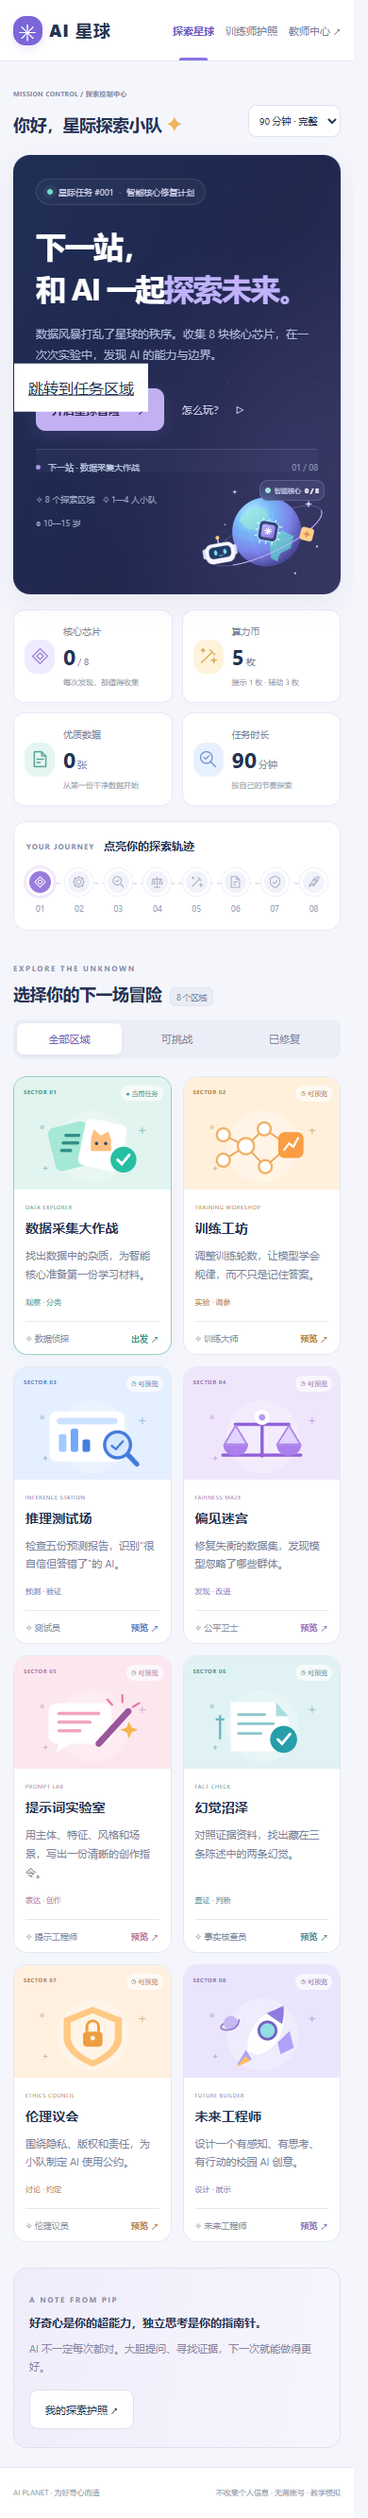
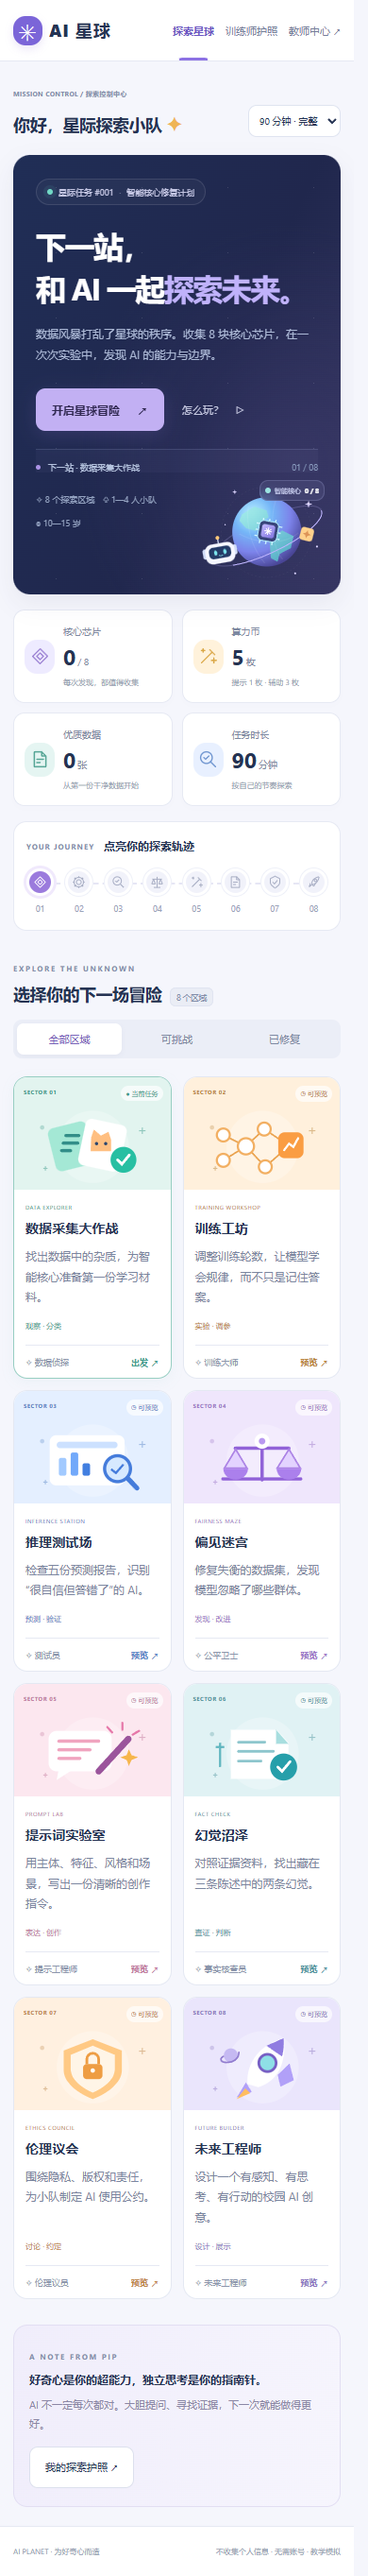
fix: polish keyboard focus and mobile form controls (round 5)

diff --git a/app.js b/app.js
@@ -12,6 +12,8 @@ let view = 'map';
 let active = 0;
 let toastTimer;
 let filter = 'all';
+let dialogTrigger = null;
+let dialogTriggerSelector = '';
 const drafts = new Map();
 function toast(message) {
   $('#toast').classList.remove('show');
@@ -102,7 +104,11 @@ function renderTeacher() {
   $('#main').innerHTML = `<section class="guide-cover"><div><span class="eyebrow">TEACHER’S FIELD GUIDE / 课堂探索手册</span><h1>把好奇心，<br>带进下一堂课。</h1><p>每一次判断，都比一个正确答案更重要。<br>陪伴学生观察、实践、讨论，把问题变成发现。</p><button class="primary" data-print>打印教师指南 ↗</button></div><div class="guide-orbit" aria-hidden="true">${scene(7)}<span>LEARN · EXPLORE · REFLECT</span></div></section><section class="classroom-steps"><div><span>01</span><strong>出发前</strong><p>分成小队，轮换四种角色。</p></div><div><span>02</span><strong>探索中</strong><p>先做判断，再说出证据。</p></div><div><span>03</span><strong>归来后</strong><p>展示作品，分享新的问题。</p></div></section><section class="panel"><div class="section-heading"><h2>选择你的课堂节奏</h2><label class="teacher-mode-label" for="teacher-mode">当前节奏 <select id="teacher-mode"><option value="45" ${state.mode==='45'?'selected':''}>45 分钟</option><option value="90" ${state.mode==='90'?'selected':''}>90 分钟</option><option value="project" ${state.mode==='project'?'selected':''}>4 课时</option></select></label></div><div class="teacher-grid"><div><h3>45 分钟 · 精简挑战</h3><p>开场 3 分钟 → 每关约 4 分钟 → 分享 10 分钟。保留全部核心概念，口头复盘。</p></div><div><h3>90 分钟 · 完整探索</h3><p>开场 5 分钟 → 每关约 9 分钟 → 分享 13 分钟。轮换团队角色，并解释每次判断。</p></div><div><h3>4 课时 · 项目实践</h3><p>每课时完成 2 关；第 4 课时安排校园 AI 方案展示与同伴反馈。建议每课时 40 分钟。</p></div></div><p class="muted">节奏设置调整教学提示与任务时长，不设置倒计时、不减少关卡；教师可灵活掌握讨论时间。</p></section><section class="panel"><h2>教师引导问题</h2><ol><li>AI 根据什么做出判断？训练数据能代表现实吗？</li><li>为什么数据更多不一定更好？干净的数据是否也可能缺乏代表性？</li><li>模型很有信心时，我们还需要哪些证据？</li><li>AI 出错时，谁应检查、纠正和承担责任？</li><li>像人一样说话，能证明 AI 有意识吗？我们还缺少什么证据？</li></ol></section><section class="panel"><h2>安全与课堂约定</h2><ul><li>不拍人脸，不输入姓名、联系方式、住址等个人信息。</li><li>本游戏不联网调用模型；模型训练、准确率、生成作品均为教学模拟。</li><li>外部 AI 工具由教师使用合适账号并全程陪同，先确认适龄条件与数据规则。</li><li>尊重不同背景，避免用群体刻板印象解释偏见。</li><li>开放题的自动通关只表示材料填写完整，质量由教师或同伴讨论确认。</li></ul></section><section class="panel"><h2>准备与评价</h2><p>线上：每组一台电脑或平板；不插电：30 张数据卡、标签贴、护照、芯片贴纸、算力币与海报纸。</p><p>每关首次完成获得 1 枚芯片和 2 枚算力币。提示花费 1 枚，辅助解题花费 3 枚；重复查看不再发奖。辅助解题后仍需提交作品或概念回答。</p><p>金牌：全部通关、平均分 ≥85、优质数据 ≥20、算力币 ≥5、协作自评 ≥2；其他全部通关者获得银牌。完成伦理议会另获伦理议员称号。</p><button class="secondary" id="print">打印本页</button></section>`;
 }
 function field(label, id, placeholder = '', min = 8) { return `<label class="input-label" for="${id}">${label}<span class="field-minimum">至少 ${min} 字</span></label><textarea id="${id}" aria-describedby="${id}-counter" minlength="${min}" maxlength="1200" placeholder="${placeholder}" required></textarea><div id="${id}-counter" class="field-counter" data-for="${id}"></div>`; }
-function choice(id, options) { return `<select id="${id}" aria-label="${id.startsWith('sample-')?'样本 '+(Number(id.split('-')[1])+1)+' 的预测判断':'选择你的判断'}" required><option value="">请选择</option>${options.map((o,i)=>`<option value="${i}">${o}</option>`).join('')}</select>`; }
+function choice(id, options) {
+  const labels={'train-choice':'测试准确率不等于100%的原因',confidence:'置信度是否等于正确率',fairness:'平衡数据后还需要做什么',tech:'方案采用的前沿技术'};
+  const label=labels[id] || (id.startsWith('sample-')?`样本 ${Number(id.split('-')[1])+1} 的预测判断`:`第 ${Number(id.split('-')[1])+1} 条陈述的证据判断`);
+  return `<select id="${id}" aria-label="${label}" required><option value="">请选择</option>${options.map((o,i)=>`<option value="${i}">${o}</option>`).join('')}</select>`;
+}
 function stageBody(id) {
   if (id===0) return `<p>检查 30 张图标数据卡。每张卡选择正确类别，或标记为剔除；保留至少 20 张清晰且标签正确的数据。</p><div class="data-workbench"><div><small>处理进度</small><strong id="data-processed">0 / 30</strong></div><div><small>已保留</small><strong id="data-kept">0</strong></div><div><small>已剔除</small><strong id="data-discarded">0</strong></div><button type="button" class="text-button" id="next-card">定位未处理卡片 ↓</button><progress id="data-progress" max="30" value="0" aria-label="数据处理进度"></progress></div><p class="workbench-note">计数仅记录操作进度，正确性将在提交后核对。</p><div class="data-grid">${cards.map(c=>`<label class="data-card"><small>#${String(c.id+1).padStart(2,'0')} · 标签：${c.label}</small><span class="animal ${c.blurry?'blurred':''}" aria-label="${c.blurry?'模糊的': '清晰的'}${c.actual}图标">${c.icon}</span><small>${c.blurry?'图像模糊':'图像清晰'}</small><select data-card="${c.id}" aria-label="第 ${c.id+1} 张数据卡的处理方式"><option value="">未处理</option>${['猫','狗','其他','剔除'].map(t=>`<option>${t}</option>`).join('')}</select></label>`).join('')}</div>${field('剔除理由','reason','描述模糊数据与错标签会怎样影响模型。')}`;
   if (id===1) return `<div class="notice">教学模拟 · 数值不来自真实模型训练</div><label class="input-label" for="epochs">训练轮数：<strong id="epoch-count">5</strong> 轮</label><input type="range" id="epochs" min="1" max="20" value="5"><div class="epoch-presets" aria-label="训练轮数快捷实验"><button type="button" data-epochs="3">试试 3 轮</button><button type="button" data-epochs="10">试试 10 轮</button><button type="button" data-epochs="20">试试 20 轮</button></div><div id="training-result"></div><p class="muted">试试 3、10、20 轮。训练越久，测试表现就一定越好吗？</p>${field('为什么测试准确率不是 100%？','reason','从样本差异、信息不足或模型能力解释。')}${choice('train-choice',['训练准确率高就能保证新题全对','新样本与训练数据有差异，模型也有局限'])}`;
@@ -128,6 +134,11 @@ function restoreDraft() {
 }
 function openStage(id) {
   if (!Number.isInteger(id) || !stages[id]) return;
+  if (!$('#mission-dialog').open) {
+    dialogTrigger = document.activeElement;
+    const kind=['level-card','badge','journey-node','stage-link'].find(c=>dialogTrigger?.classList.contains(c));
+    dialogTriggerSelector=kind?`.${kind}[data-stage="${id}"]`:'.hero .primary';
+  }
   if ($('#mission-dialog').open) rememberDraft();
   $('#dialog-toast').hidden = true;
   const dialog = $('#mission-dialog');
@@ -242,7 +253,14 @@ document.addEventListener('change', e=>{
   if(['mode','map-mode','teacher-mode'].includes(e.target.id)) { state.mode=e.target.value; save(); render(); toast('探索节奏已更新。'); }
   if(e.target.classList.contains('collab')) { state.collaborationItems=$$('.collab').map(el=>el.checked); state.collaboration=state.collaborationItems.filter(Boolean).length; save(); const focused=$$('.collab').indexOf(e.target); renderPassport(); $$('.collab')[focused]?.focus(); }
 });
-$('#mission-dialog').addEventListener('close', rememberDraft);
+$('#mission-dialog').addEventListener('close', () => {
+  rememberDraft();
+  requestAnimationFrame(()=>{
+    if ($('#mission-dialog').open) return;
+    const target=dialogTrigger?.isConnected?dialogTrigger:$(dialogTriggerSelector)||$('#main');
+    target?.focus({preventScroll:true});
+  });
+});
 render();
 if(!storageAvailable) toast('当前浏览器限制本地存储，离开前请导出护照。');
 

diff --git a/styles.css b/styles.css
@@ -2996,3 +2996,33 @@ dialog
  .art-actions { flex-direction:column; gap:8px; }
  .generation { padding:12px; }
 }
+
+/* Round 5 — focus, touch and reading details */
+.skip-link { position:fixed; top:12px; left:15px; width:1px; height:1px; padding:0; margin:-1px; overflow:hidden; clip:rect(0,0,0,0); clip-path:inset(50%); white-space:nowrap; transform:none; }
+.skip-link:focus-visible { width:auto; height:auto; padding:14px 18px; margin:0; overflow:visible; clip:auto; clip-path:none; transform:none; border-radius:8px; box-shadow:0 5px 22px #2c365e33; }
+.close { min-width:44px; min-height:44px; }
+.text-button,.secondary { min-height:44px; }
+.check-row { min-height:46px; cursor:pointer; border-radius:8px; }
+.check-row:hover { background:#f5f3fb; }
+textarea:hover,input:not([type=range]):not([type=checkbox]):hover,select:hover { border-color:#c1b5da; }
+textarea:focus,input:not([type=range]):not([type=checkbox]):focus,select:focus { border-color:#ac95d0; }
+textarea { scroll-margin-top:90px; scroll-margin-bottom:140px; }
+select,input { scroll-margin-top:90px; scroll-margin-bottom:120px; }
+button:focus-visible { position:relative; z-index:2; }
+.dialog-header .close:focus-visible { outline-offset:2px; }
+.badge:focus-visible,.level-card:focus-visible { outline-offset:3px; }
+.answer-record dd { white-space:pre-wrap; }
+@media(max-width:480px) {
+  textarea,input:not([type=range]):not([type=checkbox]) { font-size:16px; }
+  .sample select,.statement select { min-height:44px; font-size:13px; }
+  .data-card select { min-height:44px; }
+  .level-card p { font-size:12px; line-height:1.8; }
+  .nav-button { min-height:44px; }
+  .mission-actions { padding-bottom:max(13px,env(safe-area-inset-bottom)); }
+  .mission-actions button { min-height:44px; }
+  .field-counter { font-size:11px; }
+  .input-label { font-size:14px; }
+  .check-row { font-size:13px; line-height:1.8; }
+  .task-context strong { font-size:11px; }
+}
+@media print { .skip-link { display:none!important; } }

diff --git a/docs/POLISH_LOG.md b/docs/POLISH_LOG.md
@@ -32,6 +32,13 @@
 - 提示词作品使用原创矢量猫咪/机器人与头盔、背景元素，支持下载SVG。
 - 验证：12项逻辑测试、训练曲线与预设操作、提示词要素和作品下载均通过。
 
+## 第 5 轮：键盘与手机输入
+
+- 修复隐藏跳转链接在长截图中的显示问题，保留键盘首个入口。
+- 弹窗关闭后将焦点返回对应任务入口，重绘后也能找到入口。
+- 补齐判断题的具体无障碍名称，扩大手机主要控件触控尺寸，优化输入字级。
+- 验证：Tab/Enter/Escape、弹窗焦点约束、校验定位、草稿恢复与44像素按钮均通过。
+
 ## 后续轮次
 
 2. 首页布局、图标和导航细节。
